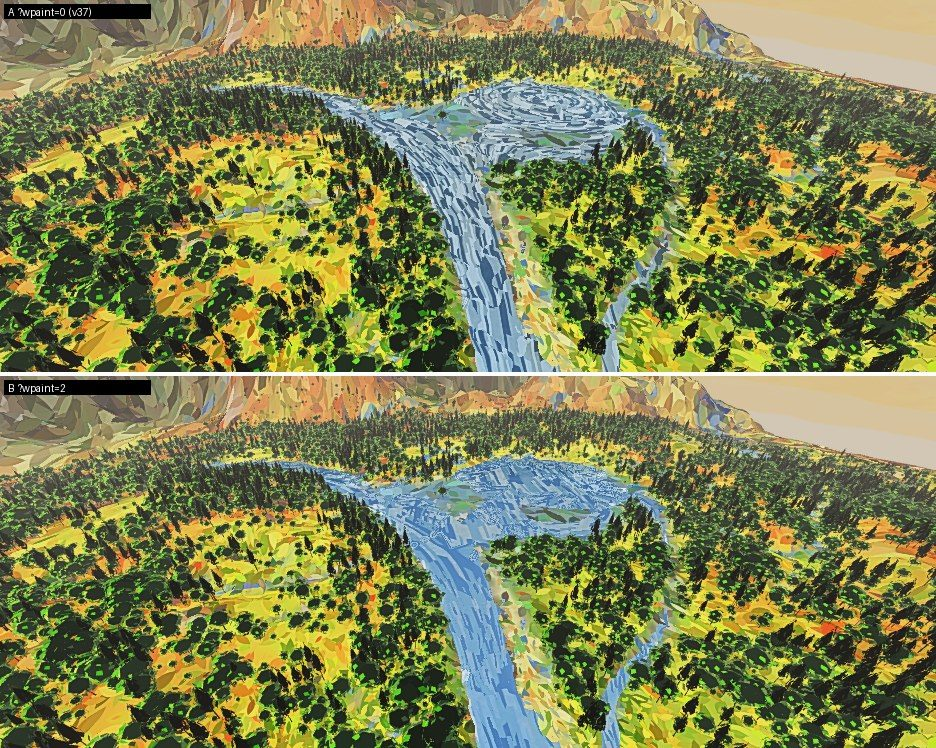
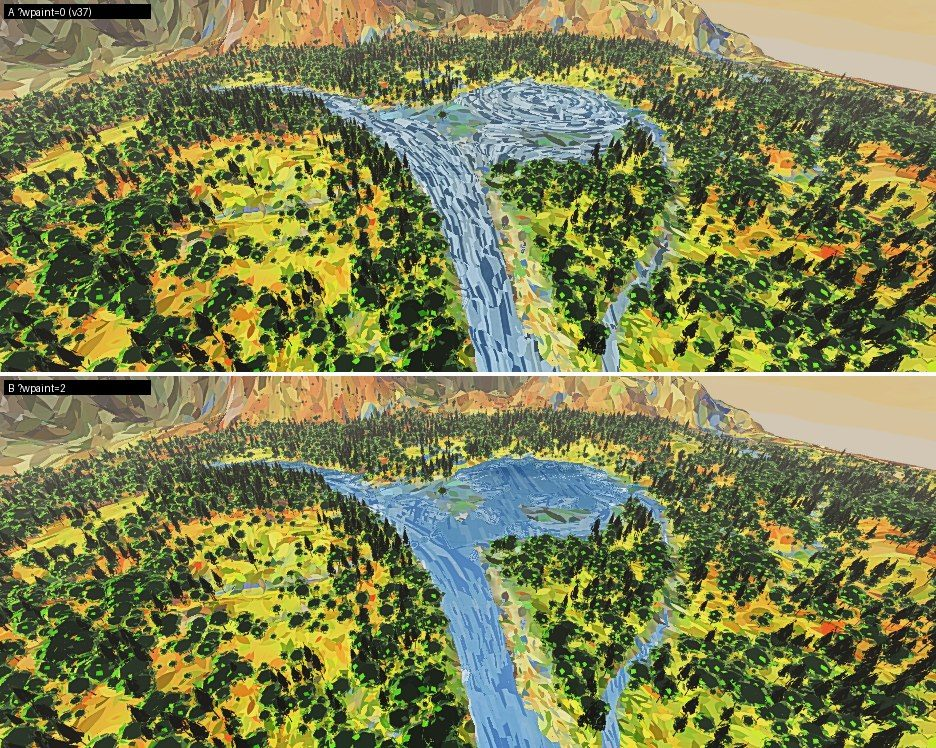
[painter] water W3 step 3 done, the strokes made the default, and E-W2's blue curtain
1. THE DEFAULT (the owner's leave of 24 Nov via the coordinator; the look director passed step 1): ?wpaint=1, the strokes of step 1, is now the default with the oil look; ?wpaint=2 adds the new colour (step 3, under review); ?wpaint=0 is v37's water. PROVEN: ?wpaint=0 by day at the bank view (936x372, t=5) against the build before steps 2 and 3 (8df8fbd): 0 pixels differ. data/mode.js default wpaint 1; uWPaint holds the level (strokes over 0.5, colour over 1.5); waterhooks.test.mjs updated for the new default.
2. STEP 3 FINISHED with the look director's step-1 note (the still pond read as crumpled foil, paler and busier than the river): still water a step deeper, less of the mirror in it, its strokes 10 to 1 and in close values (few light, few deep), white only on the sun's path; all far water held toward the look rules' band (value 0.45 to 0.70). SEEN (A/B opened, phone settings; docs/shots/painter/water-paint/s3-E3, E4, E5): E4 the wide still water a calm deep blue in long strokes where v37 was grey slate in wood grain; E3 the pond deeper and calmer than the river; E5 the threads blue from a kilometre. MEASURED (median of the water's pixels): E4 saturation 0.21 to 0.60, value 0.68 to 0.58; E3 pond value 0.69, the whole water 0.75 (the river still a little over the band: for the look director); E5 saturation 0.12 to 0.37, value 0.56.
[…]

Changed region(s): [[0.4647, 0.615, 0.6816, 0.738], [0.5577, 0.984, 0.6197, 1.0], [0.4028, 0.6457, 0.4338, 0.6765]]

diff --git a/src/render/materials.js b/src/render/materials.js
@@ -1187,7 +1187,7 @@ void main() {
   // (THE WATER'S NEW PAINT, lane W3, ?wpaint=2: the sky as it is, not mixed with three tenths of white. From the air
   // the reflected ray points at the zenith, and the white made every water seen from above a pale grey: the design's
   // w06, w09, w15, w16. Until the look director's sky as painted (LOOK-AUDIT L9, pcSkyAt) is in, the keys' own sky.)
-  if (uWPaint > 0.5) skyc = skyT;
+  if (uWPaint > 1.5) skyc = skyT;
   #endif
   vec3 dark = pcDensity(uReflDark, 1.0 + (r3.g - 0.5) * 0.9);
   vec3 c = mix(dark, skyc, skyAmt);
@@ -1259,7 +1259,7 @@ void main() {
   // grey-beige. Now two metres of water from straight above shows a twentieth of its bed, half a metre two fifths, so
   // a brook and the shallows stay light and a river's middle and a lake go deep. And the shallows' own band (under
   // 0.42 m) is let go with the distance: round a submerged bump it is a ring, and from afar a thin pale line.)
-  if (uWPaint > 0.5) bedK = clamp((1.0 - fres) * 0.42 * exp(-vDep / 0.6) + shallow * 0.7 * (1.0 - 0.92 * smoothstep(30.0, 150.0, dist)), 0.0, 0.9);
+  if (uWPaint > 1.5) bedK = clamp((1.0 - fres) * 0.42 * exp(-vDep / 0.6) + shallow * 0.7 * (1.0 - 0.92 * smoothstep(30.0, 150.0, dist)), 0.0, 0.9);
   #endif
   c = mix(c, bed * mix(vec3(1.0), c, 0.45), bedK * (1.0 - vLiqP.y) * (1.0 - vLiqP.x * 0.8));
   // pigment pools at the water's edge
@@ -1267,7 +1267,7 @@ void main() {
   #ifdef PC_WPAINT
   // (the new paint: the pigment's band at the waterline is nine centimetres wide; beyond a few tens of metres it is
   // under a pixel, and it drew every shore and every submerged bump as a dark hairline, an outline)
-  if (uWPaint > 0.5) edgeK *= 1.0 - smoothstep(20.0, 80.0, dist);
+  if (uWPaint > 1.5) edgeK *= 1.0 - smoothstep(20.0, 80.0, dist);
   #endif
   c = pcDensity(c, 1.0 + edgeK);
   // bare-paper glints: broken dashes where ripples catch the light
@@ -1404,6 +1404,7 @@ void main() {
   // swallow the far water whole, strokes and all, and a storm sea painted as a pale blank is
   // no sea; the painter keeps it darker than the sky to the horizon and lets the stacks go pale)
   // (and what glows is seen through the haze: lava keeps its fire into the distance)
+  float wLitN = 0.0, wMarkN = 0.0;      // (the night's pull, below: the light strokes and the sun's or moon's marks)
   #ifdef PC_OIL
   {
     // water in strokes: short thin dashes lying along the water (the world's own chart, so they stay where they are),
@@ -1414,6 +1415,7 @@ void main() {
     vec2 wch = pcGroundChart(vBody, uBodyR);
     vec2 wdx = pcGroundChartD(vBody, -dFdx(vToCam), uBodyR), wdy = pcGroundChartD(vBody, -dFdy(vToCam), uBodyR);
     vec3 wr1, wr2; vec2 wds; float wown;
+    float wStill = 0.0;      // (how still the water is here, for the new colour below: the new paint's own, 0 in v37's)
     // (and the churn's own chart, below: it is turned to the current on a far lower floor than the dashes are,
     // because white water must MOVE even in an eddy, where the body of the water is rightly laid still)
     vec2 ach = wch, adx = wdx, ady = wdy;
@@ -1436,6 +1438,7 @@ void main() {
       vec2 kc = pcGroundChartD(vBody, cross(up, pcPhysWaterDir(sdir)), uBodyR);
       kc = dot(kc, kc) > 1e-12 ? normalize(kc) : vec2(1.0, 0.0);
       float still = max(vStill, 1.0 - smoothstep(0.30, 0.56, coh));
+      wStill = still;
       vec2 dS = mix(fc, dot(kc, fc) < 0.0 ? -kc : kc, still);
       dS = dot(dS, dS) > 1e-6 ? normalize(dS) : kc;
       float v0 = ${FLOW_V0};
@@ -1452,7 +1455,8 @@ void main() {
       float graze = 1.0 / max(rowF, 0.333);
       vec4 wo4 = pcStrokeOct4(dist * graze * 1.1, uOilPx.z * 1.1);
       vec3 woc3 = vec3(wo4.w - wo4.z, dFdx(wo4.w), dFdy(wo4.w));
-      pcWStrokes(wch, wdx, wdy, dS, v0 * (1.0 - still), wo4.x, 6.0, woc3, wr1, wr2, wown);
+      // (with the new colour, still water's strokes are longer, as calm water is laid: the look director, on E3)
+      pcWStrokes(wch, wdx, wdy, dS, v0 * (1.0 - still), wo4.x, uWPaint > 1.5 && still > 0.5 ? 10.0 : 6.0, woc3, wr1, wr2, wown);
       // (the lace: along the current wherever there is one, at the water's own pace, on its own octaves)
       aDir = coh > 0.02 ? fc : kc; aSpd = coh > 0.02 ? v0 : 0.0;
       ao4 = pcStrokeOct4(dist * graze * 1.1, uOilPx.z * 0.40);
@@ -1507,7 +1511,7 @@ void main() {
     float wBodyD = 1.9, wBodyK = 0.55, wSunE = 56.0, wSunK = 0.6;
     vec3 wLightC = mix(skyc, vec3(1.0), 0.25);
     #ifdef PC_WPAINT
-    if (uWPaint > 0.5) {
+    if (uWPaint > 1.5) {
       // THE WATER'S BODY BY ITS DEPTH (the new paint): its own wash laid heavier the deeper it is -- a brook and the
       // shallows a lighter blue, a river's middle and a lake deep (the owner's aerial river sheets: deep blue in the
       // middle, lighter at the edges); the light strokes carry the sky as it is, not whitened; and THE SUN'S PATH
@@ -1529,7 +1533,7 @@ void main() {
     vec3 cdeep = pcDensity(c, 2.1) * vec3(0.90, 0.92, 1.0), clight = mix(c, wLightC, 0.45);
     float wThL = 0.62, wThD = 0.30;
     #ifdef PC_WPAINT
-    if (uWPaint > 0.5) {
+    if (uWPaint > 1.5) {
       // BROKEN COLOUR, NOT A MIXTURE (the new paint). v37 mixed the water's blue body into what it mirrors, pixel by
       // pixel, and laid its strokes a step lighter and darker than that mixture: under a golden sky a blue body and a
       // cream sky mixed make GREY, and from the air every water was grey (the design's w06, w09, w15, w16). Now the
@@ -1543,10 +1547,17 @@ void main() {
       vec3 body = pcDensity(vLiq.rgb, wBodyD) * vec3(0.80, 0.95, 1.06);
       // (the mirror's share held under three fifths, and the light strokes a quarter the body's: with more, the water
       // from the air went LIGHTER than the land, median value 0.80 at E3, where the look rules hold it inside the land's)
-      float fr = clamp(0.12 + 0.45 * fres, 0.0, 0.60), bk = smoothstep(40.0, 220.0, dist) * liq;
-      vec3 cN = mix(body, cRef, fr), dN = pcDensity(body, 1.3) * vec3(0.90, 0.92, 1.0), lN = mix(body, mix(cRef, skyc, 0.35), 0.75);
+      // STILL WATER IS THE CALMEST THING ON THE MAP (the look director on the step-1 stills, E3: the pond read as crumpled
+      // foil, paler and busier than the river). So where it is still: its body a step deeper than the river's chop,
+      // less of the mirror in it, its strokes in two or three close values (few light ones, few deep ones), and white
+      // only where the sun's path crosses it. And all far water inside the look rules' water band (value 0.45 to 0.70,
+      // the water group's lead and the look director: it stood at 0.77 to 0.80 from 150 m).
+      body = pcDensity(vLiq.rgb, wBodyD + 0.45 * wStill) * vec3(0.80, 0.95, 1.06);
+      float fr = clamp(0.10 + 0.40 * fres, 0.0, 0.50) * (1.0 - 0.4 * wStill), bk = smoothstep(40.0, 220.0, dist) * liq;
+      vec3 cN = mix(body, cRef, fr), dN = pcDensity(body, mix(1.3, 1.12, wStill)) * vec3(0.90, 0.92, 1.0);
+      vec3 lN = mix(body, mix(cRef, skyc, 0.35), mix(0.62, 0.30, wStill));
       c = mix(c, cN, bk); cdeep = mix(cdeep, dN, bk); clight = mix(clight, lN, bk);
-      wThL = mix(0.62, mix(0.72, 0.50, fres), bk); wThD = mix(0.30, mix(0.36, 0.22, fres), bk);
+      wThL = mix(0.62, mix(mix(0.72, 0.50, fres), 0.86, wStill), bk); wThD = mix(0.30, mix(mix(0.36, 0.22, fres), 0.16, wStill), bk);
     }
     #endif
     float wsp = pow(max(dot(reflect(-normalize(vToCam), up), uSunDirL), 0.0), wSunE) * wSunK * max(uDayness, uMoon) * (1.0 - uWx.x);
@@ -1556,6 +1567,9 @@ void main() {
     w1 = wr1.z < 0.34 * wau ? mix(vec3(0.10, 0.74, 0.60), vec3(0.24, 0.96, 0.56), step(0.5, fract(wr1.z * 31.7))) : w1;
     w2 = wr2.z < 0.34 * wau ? mix(vec3(0.10, 0.74, 0.60), vec3(0.24, 0.96, 0.56), step(0.5, fract(wr2.z * 31.7))) : w2;
     w1 = wr1.y < wsp * 1.2 ? wsun : w1; w2 = wr2.y < wsp * 1.2 ? wsun : w2;
+    // (for the night's pull, at the end: which of the pixel's strokes are light ones, and which the sun's or the moon's marks)
+    wLitN = mix(wr2.x > wThL ? 1.0 : 0.0, wr1.x > wThL ? 1.0 : 0.0, wown);
+    wMarkN = mix(wr2.y < wsp * 1.2 ? 1.0 : 0.0, wr1.y < wsp * 1.2 ? 1.0 : 0.0, wown);
     c = mix(w2, w1, wown);
     // AERATED WATER, AS PAINT (the owner, 2026-11-23: "airration" -- the white of a rapid, the lace below a fall,
     // the stirred edge where water meets rock). The foam above this is the SEA's, raised by the wind, and the game
@@ -1598,14 +1612,16 @@ void main() {
   // night water as it was.
   {
     float nkW = uMoon * uLookF.x;
-    if (nkW > 0.0) c = mix(c, pcNight(c) * mix(1.0, uLookN.x, nkW), liq);
+    // (the look director, on the night stills: the strokes that catch the sky keep a step of light over the pulled body,
+    // so the river still reads as moving water, and the moon's own path is left out of the pull)
+    if (nkW > 0.0) c = mix(c, pcNight(c) * mix(1.0, uLookN.x, nkW * (1.0 - 0.45 * wLitN)), liq * (1.0 - wMarkN));
   }
   #endif
   float f = pcFogAmount(dist) * (1.0 - 0.45 * farSea) * (1.0 - 0.6 * vLiqP.x);
   #ifdef PC_WPAINT
   // (the new paint: water is a glossy surface and reads darker than the land's haze at a distance in every one of the
   // owner's aerial references; from 60 m the air takes less of it, a third less from 450 m. To be agreed with the look director.)
-  if (uWPaint > 0.5) f *= 1.0 - 0.35 * smoothstep(60.0, 450.0, dist) * liq;
+  if (uWPaint > 1.5) f *= 1.0 - 0.35 * smoothstep(60.0, 450.0, dist) * liq;
   #endif
   c = pcAtmosV(c, f, vView);
   pcWrite(c, mix(mix(0.7, 0.22, white), 1.0, vLiqP.y), normalize(normalMatrix * up), -vView.z, 2.0);

diff --git a/src/world/patchgen.js b/src/world/patchgen.js
@@ -284,7 +284,7 @@ export function stepPatch(job, deadline) {
         wturb[q + 1] = aer <= 0 ? 0 : aer >= 1 ? 255 : Math.round(255 * aer);
       } }
     }
-    // HOW STILL THE WATER IS (the water's new paint, ?wpaint=2: lane W3, docs/lead/WATER-DESIGN.md 3.4), into the spare
+    // HOW STILL THE WATER IS (the water's new paint, ?wpaint=1, the default: lane W3, docs/lead/WATER-DESIGN.md 3.4), into the spare
     // byte aTurb.w: 0 water with a current .. 1 a pond, a lake, the sea. The paint lays still water's strokes along the
     // wind's crests, long and level, and never runs them; a current's along it, running. Three things say still:
     //  - the surface says so (s.still: the lakes, ponds and puddles of the bodies-of-water lane, when it is attached);
@@ -300,7 +300,7 @@ export function stepPatch(job, deadline) {
     //    BOTH sides across the current is a pool. Asked of the surface itself (two samples), on a grid of about 6 m over
     //    the patch and laid between, so a patch at any level gives about the same answer.
     // (Only with the switch: without it the byte stays 0, as it was, and nothing reads it.)
-    if (wturb && MODE.water && MODE.water.wpaint >= 2) {
+    if (wturb && MODE.water && MODE.water.wpaint >= 1) {
       const st = (_stillSamp && _stillSamp.w.length >= S.nB) ? _stillSamp : (_stillSamp = makeSample(S.nB));
       const gs = Math.max(1, Math.round(6 / cellM)), G = Math.ceil((V - 1) / gs) + 1;
       if (_stillGrid.length < G * G) _stillGrid = new Float32Array(G * G);
@@ -344,10 +344,27 @@ export function stepPatch(job, deadline) {
       }
     }
     const widx = [];
+    // (NO BLUE CURTAIN AT A FALL, for the bodies-of-water lane's waterfalls, E-W2: a cell with one wet corner is kept, so a
+    // cell across a lip -- the river cut at 19.6 m, the sea at 0 -- was one water quad as tall as the cliff, painted with
+    // the water's dashes: a flat blue curtain behind every fall. A cell whose four corners all hold liquid but whose
+    // levels spread over 2 m AND over half the cell's width (a face steeper than 1 in 2) is a fall, and the falls' own
+    // sheet draws it. Today's staircase lips, about 0.17 m a metre, are kept. MEASURED, all 30,720 patches of levels 5
+    // and 6 and 800 of 7 and 8 over Earth: today's oil world 0 cells dropped; with the drainage (?flow=1) 32, which is
+    // why it waits for a water part's switch.)
+    // (Only with a water part that changes the world, MODE.water.on: rivers=tree, lakes, falls, fjord ...; without one
+    // nothing is dropped and the mesh is as it was.)
+    let dropped = 0;
+    const fallCut = !!(MODE.water && MODE.water.on);
     for (let j = 0; j < N; j++) for (let i = 0; i < N; i++) {
       const a = j * V + i, b = a + 1, c = a + V, d = c + 1;
+      const k0 = (j + 1) * E + (i + 1), l0 = _lq[k0], l1 = _lq[k0 + 1], l2 = _lq[k0 + E], l3 = _lq[k0 + E + 1];
+      if (fallCut && l0 > -1e5 && l1 > -1e5 && l2 > -1e5 && l3 > -1e5) {
+        const sp = Math.max(l0, l1, l2, l3) - Math.min(l0, l1, l2, l3);
+        if (sp > 2.0 && sp > 0.5 * cellM) { dropped++; continue; }
+      }
       if (wdep[a] > -0.45 || wdep[b] > -0.45 || wdep[c] > -0.45 || wdep[d] > -0.45) widx.push(a, b, d, a, d, c);
     }
+    stepPatch.fallCells = (stepPatch.fallCells || 0) + dropped;      // (counted for the test that proves none drop where nothing falls)
     // thin water (a brook) is left to the terrain's far colour on coarse patches
     if (widx.length && (level >= 5 || widx.length > N * N * 6 * 0.08)) water = { positions: wpos, depth: wdep, liq: wliq, liqP: wlp, turb: wturb, indices: new Uint16Array(widx) };
   }

diff --git a/src/data/mode.js b/src/data/mode.js
@@ -31,10 +31,11 @@ export const MODE = { oil: false, powers: false, calm: false, beasts: 0, water: 
 //   ?lakes=1       lake beds in the basins the field fills          ?ponds=1    ponds in flat glades
 //   ?puddles=1     puddles that come with rain and dry after it     ?swell=1    streams that rise after rain
 //   ?falls=1       waterfalls where rivers meet cliffs              ?fjord=1    fjords at high river mouths
-//   ?wpaint=2      the water's new paint (0: v37's)                 ?wakes=2    ring waves per pixel (1: v37's, per vertex)
+//   ?wpaint=1      the water's new strokes, THE DEFAULT (0: v37's;  ?wakes=2    ring waves per pixel (1: v37's, per vertex)
+//                  2: and its new colour, under review)
 //   ?splash=1      splashes going in, from footsteps, from a low flight
 // A NUMBER or 0 for each: 0 is off, which is exactly the game as it was.
-MODE.water = { on: false, rivers: 0, lakes: 0, ponds: 0, puddles: 0, swell: 0, falls: 0, fjord: 0, wpaint: 0, wakes: 1, splash: 0 };
+MODE.water = { on: false, rivers: 0, lakes: 0, ponds: 0, puddles: 0, swell: 0, falls: 0, fjord: 0, wpaint: 1, wakes: 1, splash: 0 };
 export function waterFromSearch(search) {
   const W = MODE.water;
   let q;
@@ -43,7 +44,8 @@ export function waterFromSearch(search) {
   W.rivers = q.get('rivers') === 'tree' ? 1 : 0;
   W.lakes = n('lakes', 0); W.ponds = n('ponds', 0); W.puddles = n('puddles', 0); W.swell = n('swell', 0);
   W.falls = n('falls', 0); W.fjord = n('fjord', 0);
-  W.wpaint = n('wpaint', 0); W.wakes = n('wakes', 1); W.splash = n('splash', 0);
+  W.wpaint = n('wpaint', 1);      // (the owner, 24 Nov: reviewed work becomes the default; the strokes passed the look director)
+   W.wakes = n('wakes', 1); W.splash = n('splash', 0);
   W.on = !!(W.rivers || W.lakes || W.ponds || W.puddles || W.swell || W.falls || W.fjord);
   return W;
 }

diff --git a/src/render/waterchunk.js b/src/render/waterchunk.js
@@ -13,10 +13,15 @@
 import { MODE } from '../data/mode.js';
 import { WATER_BENCH } from '../world/waterhooks.js';
 
-// The new paint is compiled in only with the oil look and ?wpaint=2 (read at use: MODE is set after this module runs).
-export function wpaintOn() { return !!(MODE.oil && MODE.water && MODE.water.wpaint >= 2); }
+// The new paint is compiled in with the oil look unless ?wpaint=0 (read at use: MODE is set after this module runs). Its
+// level is the uniform: 1 the new strokes (the default since 24 Nov), 2 and the new colour (steps 2-3, under review).
+export function wpaintOn() {
+  const on = !!(MODE.oil && MODE.water && MODE.water.wpaint >= 1);
+  if (on) WPAINT.uWPaint.value = Math.min(2, MODE.water.wpaint);
+  return on;
+}
 
-// 1: the new paint, 0: v37's. The same object in every water material, so one write switches them all.
+// 1: the new strokes, 2: and the new colour, 0: v37's. The same object in every water material, so one write switches them all.
 export const WPAINT = { uWPaint: { value: 1 } };
 
 // The speed test's rows for the new paint (WATER-DESIGN.md 6): at the bank and at the shore, v37's paint against the
@@ -26,7 +31,7 @@ export function benchWPaint() {
   if (benched || !wpaintOn()) return;
   benched = true;
   for (const view of ['bank', 'shore']) {
-    WATER_BENCH.push({ name: 'v37 water paint', view, on: () => { WPAINT.uWPaint.value = 0; }, off: () => { WPAINT.uWPaint.value = 1; } });
+    WATER_BENCH.push({ name: 'v37 water paint', view, on: () => { WPAINT.uWPaint.value = 0; }, off: () => { WPAINT.uWPaint.value = Math.min(2, MODE.water.wpaint); } });
   }
 }
 

diff --git a/docs/notes/painter.md b/docs/notes/painter.md
@@ -69,7 +69,19 @@ the distance (56 near, 22 from a kilometre: a path of broken light); the haze on
 water-only factor on `pcAtmosV`'s amount: TO BE AGREED with the look director); the waterline's dark band let go beyond
 20 to 80 m (it was an outline). `waterchunk.js` gained `WATERCHUNK_FAR_GLSL` (`pcWaterFar`, `pcWaterFarC`,
 `pcWaterShine`) for group C's far ground: interface sent to C, the byte for `frac` asked of C, not wired yet.
-SEEN and MEASURED: see the step 3 commit and `docs/shots/painter/water-paint/s3-*`.
+SEEN and MEASURED (phone settings; `s3-E3/E4/E5-phone-ab.jpg`, median of the water's pixels): E4 saturation 0.21 to
+0.60, value 0.68 to 0.58 (the band 0.45-0.70); E3 the pond a step darker than the river (0.69 against 0.75 for the whole
+water), the river still a little over the band; E5 0.12 to 0.37 saturation, value 0.56. After the look director's step-1
+note still water is the calmest thing: a step deeper, less mirror, strokes 10:1 and in close values, white only on the sun's
+path. NIGHT (F's ask): the light strokes keep a step of light over the pulled body, the moon's marks are left out of the
+pull (`s2-E1-night-23h-wpaint2-crest-ab.jpg`: water V 0.45, land 0.22).
+**THE DEFAULT since 24 Nov** (the owner's leave, the coordinator's word, F passed step 1): `?wpaint=1` -- the strokes of
+step 1 -- is the default; `?wpaint=2` adds the colour of step 3 (under review); `?wpaint=0` is v37's water, PROVEN: by day
+at the bank view (936 x 372, `&t=5`) 0 pixels differ from the build before steps 2 and 3. `uWPaint` holds the level.
+**E-W2's blue curtain** (the coordinator's request): patchgen's water index loop drops a cell whose four corners hold
+liquid but whose levels spread over 2 m and over half the cell (a face steeper than 1 in 2), only with a water world
+switch (`MODE.water.on`). MEASURED over all 30,720 patches of levels 5 and 6 and 800 of 7 and 8: 0 dropped in today's
+world, with or without the drainage.
 NOT done of FV5: shore-tangent dashes (they would bring the whorl back; the design lays still water along the wind)
 and the shore hairline (the owner's rule: no outlines) -- both said to C; the current made visible from 400 m.
 
